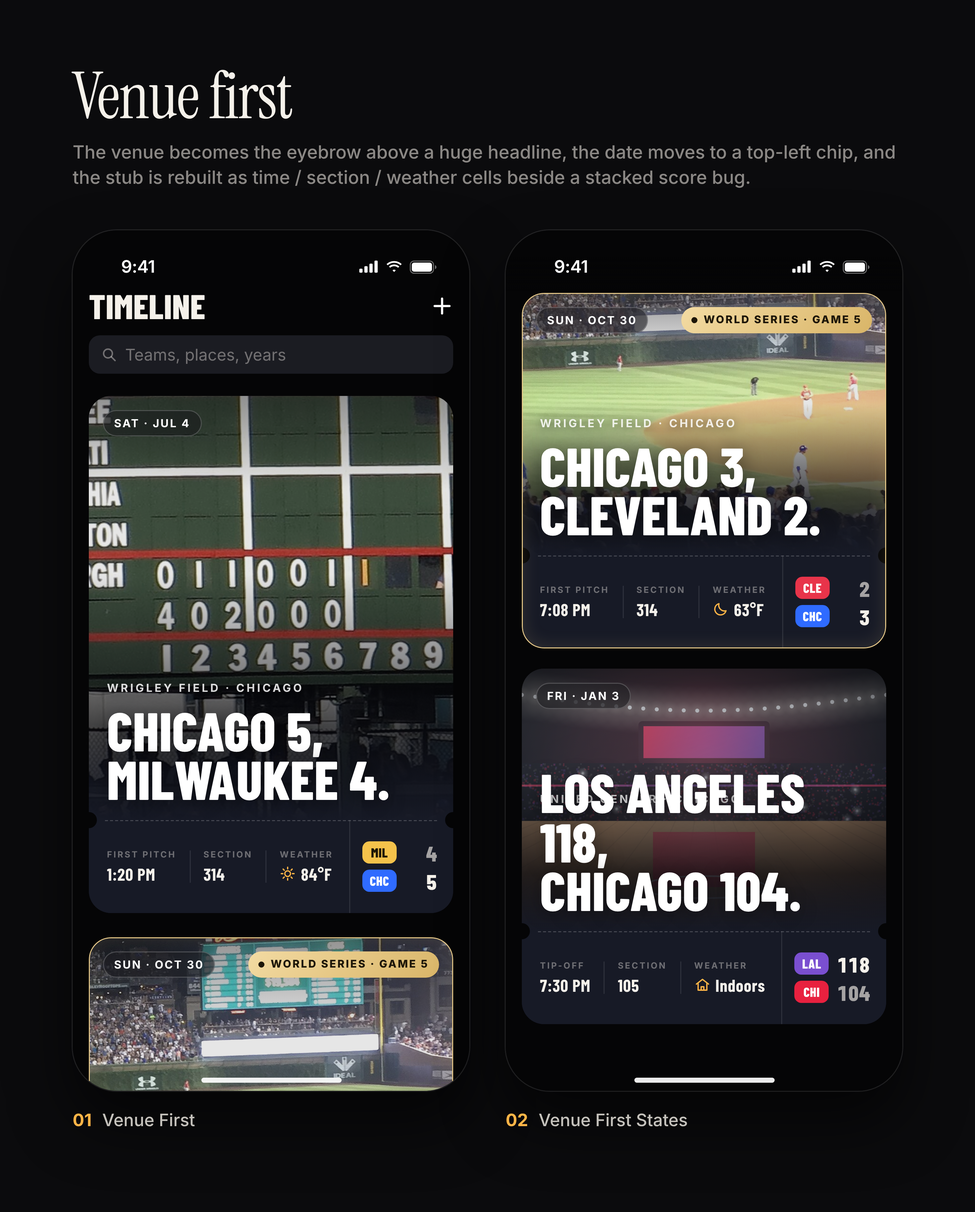
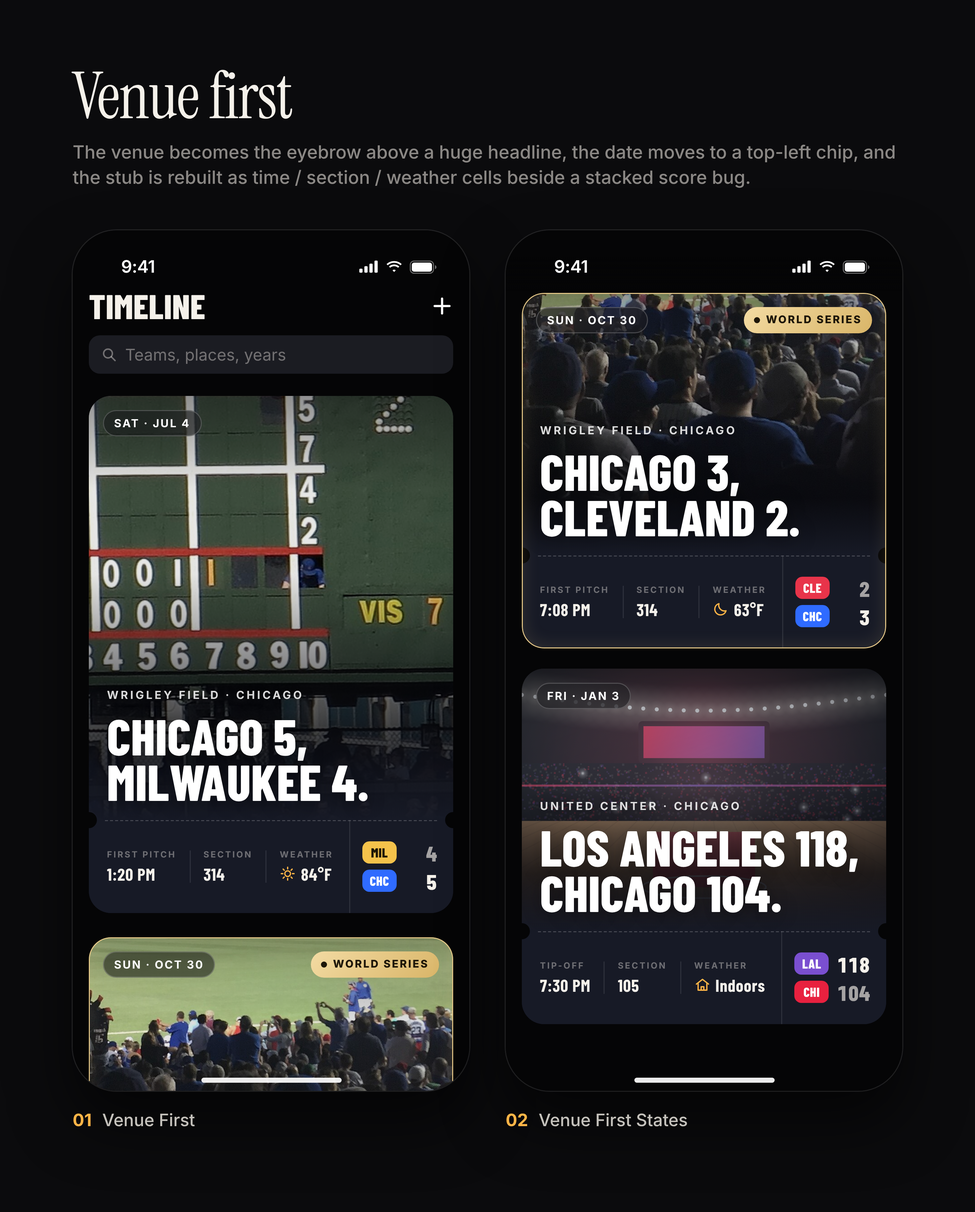
Timeline card tweaks: 01, 02 and in-progress mockups
Claude-Session: https://claude.ai/code/session_01YKCsRGYnDsF5Pryete24Wa

diff --git a/mockups/timeline-cards/features/10-firsts-and-counts/v2-states.html b/mockups/timeline-cards/features/10-firsts-and-counts/v2-states.html
@@ -10,8 +10,8 @@
 .search svg{width:17px;height:17px;stroke:var(--text-3);fill:none;stroke-width:2.2;stroke-linecap:round}
 .card{position:absolute;left:16px;width:361px;border-radius:22px;overflow:hidden;background:#14151c}
 .card.champ{box-shadow:0 0 0 1.5px #e6cf9a,0 0 28px rgba(230,207,154,.18)}
-.photo{position:absolute;left:0;top:0;right:0;overflow:hidden;background:#0b0c10}
-.photo .img,.photo canvas{position:absolute;inset:0;width:100%;height:100%}
+.ph2{position:absolute;left:0;top:0;right:0;overflow:hidden;background:#0b0c10}
+.ph2 .img,.ph2 canvas{position:absolute;inset:0;width:100%;height:100%}
 .photo .img{filter:contrast(1.05) saturate(.9) brightness(.92)}
 .scrim{position:absolute;inset:0;background:linear-gradient(to top,rgba(5,5,8,.94) 0,rgba(5,5,8,.72) 34%,rgba(5,5,8,.12) 66%,rgba(5,5,8,.28) 100%)}
 .hl{position:absolute;left:20px;right:16px;bottom:18px}
@@ -39,25 +39,25 @@
 .burst svg{position:absolute;inset:0;width:100%;height:100%}
 .burst div{position:absolute;inset:0;display:flex;flex-direction:column;align-items:center;justify-content:center;color:#2a1700;transform:rotate(-9deg)}
 .burst b{font:900 25px/.85 var(--f-cond);letter-spacing:.2px} .burst em{font:800 11.5px/1 var(--f-cond);font-style:normal;letter-spacing:1.4px;margin-top:2px}
-.stampw{position:absolute;left:176px;top:22px;width:46px;height:46px}
+.stampw{position:absolute;left:18px;top:26px;width:46px;height:46px}
 .stamp{width:44px;height:44px;opacity:.95}
 .bug.sm{font-size:20px;gap:4px} .bug.sm .tile{min-width:30px;height:24px;font-size:14px}
-.leg{position:absolute;left:16px;right:16px;top:58px;height:24px;display:flex;align-items:center;gap:8px;font:600 10.5px/1 var(--f-ui);color:var(--text-3);letter-spacing:.3px} .leg span{letter-spacing:1.4px;text-transform:uppercase;margin-right:2px} .leg i{font-style:normal;padding:4px 8px;border-radius:9px} .leg .a{background:#e6cf9a;color:#2a2210} .leg .b{background:var(--signal);color:#2a1700} .leg .c{background:rgba(255,255,255,.12);color:#fff} .leg u{text-decoration:none;color:var(--text-4)}</style></head>
+.leg{position:absolute;left:16px;right:16px;top:58px;height:24px;display:flex;align-items:center;gap:8px;font:600 10.5px/1 var(--f-ui);color:var(--text-3);letter-spacing:.3px;white-space:nowrap} .leg span{letter-spacing:1px;text-transform:uppercase;margin-right:2px} .leg i{font-style:normal;padding:4px 8px;border-radius:9px} .leg .a{background:#e6cf9a;color:#2a2210} .leg .b{background:var(--signal);color:#2a1700} .leg .c{background:rgba(255,255,255,.12);color:#fff} .leg u{text-decoration:none;color:var(--text-4)}</style></head>
 <body class="phone">
 <div class="leg"><span>Badge priority</span><i class="a">Championship</i><u>›</u><i class="b">New park</i><u>›</u><i class="c">Count</i></div><div class="card champ" style="top:92px;height:336px;--tc:#fff">
- <div class="photo" style="height:244px"><div class="img" style="background:url(../../../photos/wrigley-night.jpg) no-repeat;background-size:722px 963px;background-position:-267px -552px"></div><div class="scrim"></div><div class="evb">World Series · G5</div><div class="cnt quiet">WRIGLEY<b>#6</b></div>
+ <div class="ph2" style="height:244px"><div class="img" style="background:url(../../../photos/wrigley-night.jpg) no-repeat;background-size:722px 963px;background-position:-267px -552px"></div><div class="scrim"></div><div class="evb">World Series · G5</div><div class="cnt quiet">WRIGLEY<b>#6</b></div>
   <div class="hl"><h2>Chicago 3,<br>Cleveland 2.</h2></div></div>
  <div class="stub" style="background:#16171e"><div class="notch l"></div><div class="notch r"></div>
-  <div style="position:absolute;left:20px;top:30px"><div class="date">Oct 30, 2016</div><div class="sub" style="margin-top:8px"><b>1st</b> time seeing Cleveland</div></div>
+  <div style="position:absolute;left:74px;top:24px"><div class="date">Oct 30, 2016</div><div class="sub" style="margin-top:7px;max-width:128px"><b>1st</b> time seeing Cleveland</div></div>
   <div class="stampw"><svg class="stamp" viewBox="0 0 44 44" style="transform:rotate(-10deg)" ><circle cx="22" cy="22" r="20" fill="none" stroke="#ffb547" stroke-width="1.6" /><circle cx="22" cy="22" r="16.5" fill="none" stroke="#ffb547" stroke-width=".7" opacity=".8"/>
 <text x="22" y="14.5" text-anchor="middle" font-family="Barlow Condensed" font-weight="800" font-size="7.5" letter-spacing=".8" fill="#ffb547">WRG</text>
 <text x="22" y="28.5" text-anchor="middle" font-family="Barlow Condensed" font-weight="800" font-size="15" fill="#ffb547">6</text>
 <text x="22" y="36.5" text-anchor="middle" font-family="JetBrains Mono" font-weight="600" font-size="5" letter-spacing=".4" fill="#ffb547">2016</text></svg></div>
   <div class="bug sm"><span class="tile  dim" style="background:#C8102E;color:#fff">CLE</span><span class="sc ">2</span><span class="gap"></span><span class="tile  " style="background:#2F6BFF;color:#fff">CHC</span><span class="sc me">3</span></div></div></div><div class="card " style="top:444px;height:336px;--tc:#fff">
- <div class="photo" style="height:244px"><canvas class="photo-c" data-style="arena" data-seed="11" data-accent="#e8213f" data-secondary="#3a0b14"></canvas><div class="scrim"></div><div class="burst"><svg viewBox="0 0 72 72"><polygon points="36.0,2.0 41.5,8.5 49.0,4.6 51.6,12.7 60.0,12.0 59.3,20.4 67.4,23.0 63.5,30.5 70.0,36.0 63.5,41.5 67.4,49.0 59.3,51.6 60.0,60.0 51.6,59.3 49.0,67.4 41.5,63.5 36.0,70.0 30.5,63.5 23.0,67.4 20.4,59.3 12.0,60.0 12.7,51.6 4.6,49.0 8.5,41.5 2.0,36.0 8.5,30.5 4.6,23.0 12.7,20.4 12.0,12.0 20.4,12.7 23.0,4.6 30.5,8.5" fill="#ffb547"/><circle cx="36" cy="36" r="24.5" fill="none" stroke="#3a2200" stroke-width="1" stroke-dasharray="2 2" opacity=".55"/></svg><div><b>NEW</b><em>ARENA</em></div></div>
-  <div class="hl"><h2>Los Angeles 118,<br>Chicago 104.</h2></div></div>
+ <div class="ph2" style="height:244px"><canvas class="photo" data-style="arena" data-seed="11" data-accent="#e8213f" data-secondary="#3a0b14"></canvas><div class="scrim"></div><div class="burst"><svg viewBox="0 0 72 72"><polygon points="36.0,2.0 41.5,8.5 49.0,4.6 51.6,12.7 60.0,12.0 59.3,20.4 67.4,23.0 63.5,30.5 70.0,36.0 63.5,41.5 67.4,49.0 59.3,51.6 60.0,60.0 51.6,59.3 49.0,67.4 41.5,63.5 36.0,70.0 30.5,63.5 23.0,67.4 20.4,59.3 12.0,60.0 12.7,51.6 4.6,49.0 8.5,41.5 2.0,36.0 8.5,30.5 4.6,23.0 12.7,20.4 12.0,12.0 20.4,12.7 23.0,4.6 30.5,8.5" fill="#ffb547"/><circle cx="36" cy="36" r="24.5" fill="none" stroke="#3a2200" stroke-width="1" stroke-dasharray="2 2" opacity=".55"/></svg><div><b>NEW</b><em>ARENA</em></div></div>
+  <div class="hl"><h2>L.A. 118,<br>Chicago 104.</h2></div></div>
  <div class="stub" style="background:#16171e"><div class="notch l"></div><div class="notch r"></div>
-  <div style="position:absolute;left:20px;top:30px"><div class="date">Jan 3, 2025</div><div class="sub" style="margin-top:8px"><b>1st</b> time seeing Los Angeles</div></div>
+  <div style="position:absolute;left:74px;top:24px"><div class="date">Jan 3, 2025</div><div class="sub" style="margin-top:7px;max-width:128px"><b>1st</b> time seeing Los Angeles</div></div>
   <div class="stampw"><svg class="stamp" viewBox="0 0 44 44" style="transform:rotate(-10deg)" filter="drop-shadow(0 0 3px rgba(255,181,71,.7))"><circle cx="22" cy="22" r="20" fill="none" stroke="#ffb547" stroke-width="1.6" stroke-dasharray="3 2"/><circle cx="22" cy="22" r="16.5" fill="none" stroke="#ffb547" stroke-width=".7" opacity=".8"/>
 <text x="22" y="14.5" text-anchor="middle" font-family="Barlow Condensed" font-weight="800" font-size="7.5" letter-spacing=".8" fill="#ffb547">UC</text>
 <text x="22" y="28.5" text-anchor="middle" font-family="Barlow Condensed" font-weight="800" font-size="15" fill="#ffb547">1</text>

diff --git a/mockups/timeline-cards/features/10-firsts-and-counts/v1-main.html b/mockups/timeline-cards/features/10-firsts-and-counts/v1-main.html
@@ -10,8 +10,8 @@
 .search svg{width:17px;height:17px;stroke:var(--text-3);fill:none;stroke-width:2.2;stroke-linecap:round}
 .card{position:absolute;left:16px;width:361px;border-radius:22px;overflow:hidden;background:#14151c}
 .card.champ{box-shadow:0 0 0 1.5px #e6cf9a,0 0 28px rgba(230,207,154,.18)}
-.photo{position:absolute;left:0;top:0;right:0;overflow:hidden;background:#0b0c10}
-.photo .img,.photo canvas{position:absolute;inset:0;width:100%;height:100%}
+.ph2{position:absolute;left:0;top:0;right:0;overflow:hidden;background:#0b0c10}
+.ph2 .img,.ph2 canvas{position:absolute;inset:0;width:100%;height:100%}
 .photo .img{filter:contrast(1.05) saturate(.9) brightness(.92)}
 .scrim{position:absolute;inset:0;background:linear-gradient(to top,rgba(5,5,8,.94) 0,rgba(5,5,8,.72) 34%,rgba(5,5,8,.12) 66%,rgba(5,5,8,.28) 100%)}
 .hl{position:absolute;left:20px;right:16px;bottom:18px}
@@ -39,25 +39,25 @@
 .burst svg{position:absolute;inset:0;width:100%;height:100%}
 .burst div{position:absolute;inset:0;display:flex;flex-direction:column;align-items:center;justify-content:center;color:#2a1700;transform:rotate(-9deg)}
 .burst b{font:900 25px/.85 var(--f-cond);letter-spacing:.2px} .burst em{font:800 11.5px/1 var(--f-cond);font-style:normal;letter-spacing:1.4px;margin-top:2px}
-.stampw{position:absolute;left:176px;top:22px;width:46px;height:46px}
+.stampw{position:absolute;left:18px;top:26px;width:46px;height:46px}
 .stamp{width:44px;height:44px;opacity:.95}
 .bug.sm{font-size:20px;gap:4px} .bug.sm .tile{min-width:30px;height:24px;font-size:14px}
 </style></head>
 <body class="phone">
 <div class="title">Timeline</div><div class="plus"><svg viewBox="0 0 24 24"><path d="M12 4v16M4 12h16"/></svg></div><div class="search"><svg viewBox="0 0 24 24"><circle cx="11" cy="11" r="7"/><path d="M16.5 16.5L21 21"/></svg>Teams, places, years</div><div class="card " style="top:164px;height:512px;--tc:#fff">
- <div class="photo" style="height:420px"><div class="img" style="background:url(../../../photos/wrigley-scoreboard.jpg) no-repeat;background-size:582px 327px;background-position:-12px 46px"></div><div class="scrim"></div><div class="cnt">WRIGLEY<b>#17</b></div>
+ <div class="ph2" style="height:420px"><div class="img" style="background:url(../../../photos/wrigley-scoreboard.jpg) 30% 40%/cover no-repeat"></div><div class="scrim"></div><div class="cnt">WRIGLEY<b>#17</b></div>
   <div class="hl"><h2>Chicago 5,<br>Milwaukee 4.</h2></div></div>
  <div class="stub" style="background:#16171e"><div class="notch l"></div><div class="notch r"></div>
-  <div style="position:absolute;left:20px;top:30px"><div class="date">Jul 4, 2026</div><div class="sub" style="margin-top:8px"><b>3rd</b> time seeing Milwaukee</div></div>
+  <div style="position:absolute;left:74px;top:24px"><div class="date">Jul 4, 2026</div><div class="sub" style="margin-top:7px;max-width:128px"><b>3rd</b> time seeing Milwaukee</div></div>
   <div class="stampw"><svg class="stamp" viewBox="0 0 44 44" style="transform:rotate(-10deg)" ><circle cx="22" cy="22" r="20" fill="none" stroke="#ffb547" stroke-width="1.6" /><circle cx="22" cy="22" r="16.5" fill="none" stroke="#ffb547" stroke-width=".7" opacity=".8"/>
 <text x="22" y="14.5" text-anchor="middle" font-family="Barlow Condensed" font-weight="800" font-size="7.5" letter-spacing=".8" fill="#ffb547">WRG</text>
 <text x="22" y="28.5" text-anchor="middle" font-family="Barlow Condensed" font-weight="800" font-size="15" fill="#ffb547">17</text>
 <text x="22" y="36.5" text-anchor="middle" font-family="JetBrains Mono" font-weight="600" font-size="5" letter-spacing=".4" fill="#ffb547">2026</text></svg></div>
   <div class="bug sm"><span class="tile  dim" style="background:#F4C24B;color:#2a2100">MIL</span><span class="sc ">4</span><span class="gap"></span><span class="tile  " style="background:#2F6BFF;color:#fff">CHC</span><span class="sc me">5</span></div></div></div><div class="card champ" style="top:700px;height:512px;--tc:#fff">
- <div class="photo" style="height:420px"><div class="img" style="background:url(../../../photos/wrigley-night.jpg) no-repeat;background-size:722px 963px;background-position:-267px -464px"></div><div class="scrim"></div><div class="evb">World Series · G5</div><div class="cnt quiet">WRIGLEY<b>#6</b></div>
+ <div class="ph2" style="height:420px"><div class="img" style="background:url(../../../photos/wrigley-night.jpg) no-repeat;background-size:722px 963px;background-position:-267px -464px"></div><div class="scrim"></div><div class="evb">World Series · G5</div><div class="cnt quiet">WRIGLEY<b>#6</b></div>
   <div class="hl"><h2>Chicago 3,<br>Cleveland 2.</h2></div></div>
  <div class="stub" style="background:#16171e"><div class="notch l"></div><div class="notch r"></div>
-  <div style="position:absolute;left:20px;top:30px"><div class="date">Oct 30, 2016</div><div class="sub" style="margin-top:8px"><b>1st</b> time seeing Cleveland</div></div>
+  <div style="position:absolute;left:74px;top:24px"><div class="date">Oct 30, 2016</div><div class="sub" style="margin-top:7px;max-width:128px"><b>1st</b> time seeing Cleveland</div></div>
   <div class="stampw"><svg class="stamp" viewBox="0 0 44 44" style="transform:rotate(-10deg)" ><circle cx="22" cy="22" r="20" fill="none" stroke="#ffb547" stroke-width="1.6" /><circle cx="22" cy="22" r="16.5" fill="none" stroke="#ffb547" stroke-width=".7" opacity=".8"/>
 <text x="22" y="14.5" text-anchor="middle" font-family="Barlow Condensed" font-weight="800" font-size="7.5" letter-spacing=".8" fill="#ffb547">WRG</text>
 <text x="22" y="28.5" text-anchor="middle" font-family="Barlow Condensed" font-weight="800" font-size="15" fill="#ffb547">6</text>

diff --git a/mockups/timeline-cards/features/09-your-team/v1-main.html b/mockups/timeline-cards/features/09-your-team/v1-main.html
@@ -10,8 +10,8 @@
 .search svg{width:17px;height:17px;stroke:var(--text-3);fill:none;stroke-width:2.2;stroke-linecap:round}
 .card{position:absolute;left:16px;width:361px;border-radius:22px;overflow:hidden;background:#14151c}
 .card.champ{box-shadow:0 0 0 1.5px #e6cf9a,0 0 28px rgba(230,207,154,.18)}
-.photo{position:absolute;left:0;top:0;right:0;overflow:hidden;background:#0b0c10}
-.photo .img,.photo canvas{position:absolute;inset:0;width:100%;height:100%}
+.ph2{position:absolute;left:0;top:0;right:0;overflow:hidden;background:#0b0c10}
+.ph2 .img,.ph2 canvas{position:absolute;inset:0;width:100%;height:100%}
 .photo .img{filter:contrast(1.05) saturate(.9) brightness(.92)}
 .scrim{position:absolute;inset:0;background:linear-gradient(to top,rgba(5,5,8,.94) 0,rgba(5,5,8,.72) 34%,rgba(5,5,8,.12) 66%,rgba(5,5,8,.28) 100%)}
 .hl{position:absolute;left:20px;right:16px;bottom:18px}
@@ -42,14 +42,14 @@
 </style></head>
 <body class="phone">
 <div class="title">Timeline</div><div class="plus"><svg viewBox="0 0 24 24"><path d="M12 4v16M4 12h16"/></svg></div><div class="search"><svg viewBox="0 0 24 24"><circle cx="11" cy="11" r="7"/><path d="M16.5 16.5L21 21"/></svg>Teams, places, years</div><div class="card " style="top:164px;height:512px;--tc:#8fb0ff">
- <div class="photo" style="height:420px"><div class="img" style="background:url(../../../photos/wrigley-scoreboard.jpg) no-repeat;background-size:582px 327px;background-position:-12px 46px"></div><div class="scrim"></div>
+ <div class="ph2" style="height:420px"><div class="img" style="background:url(../../../photos/wrigley-scoreboard.jpg) 30% 40%/cover no-repeat"></div><div class="scrim"></div>
   <div class="tint" style="background:linear-gradient(to top,color-mix(in srgb,#2F6BFF 26%,transparent),transparent 55%)"></div>
   <div class="chip"><span class="tile s " style="background:#2F6BFF;color:#fff">CHC</span><span>You were there for <b>Chicago</b></span></div>
   <div class="hl"><h2>Chicago <span class="w">win</span><br>5–4.</h2><div class="rv"><i></i><span>vs Milwaukee</span><i></i></div></div></div>
  <div class="stub" style="background:linear-gradient(180deg,color-mix(in srgb,#2F6BFF 34%,#14151c),color-mix(in srgb,#2F6BFF 14%,#12131a))"><div class="notch l"></div><div class="notch r"></div>
   <div style="position:absolute;left:20px;top:30px"><div class="date">Jul 4, 2026</div><div class="sub" style="margin-top:8px">Win <b>#9</b> of 2026 · Sec 314</div></div>
   <div class="bug"><span class="tile  dim" style="background:#F4C24B;color:#2a2100">MIL</span><span class="sc ">4</span><span class="gap"></span><span class="tile  " style="background:#2F6BFF;color:#fff">CHC</span><span class="sc me">5</span></div></div></div><div class="card champ" style="top:700px;height:512px;--tc:#8fb0ff">
- <div class="photo" style="height:420px"><div class="img" style="background:url(../../../photos/wrigley-night.jpg) no-repeat;background-size:722px 963px;background-position:-267px -464px"></div><div class="scrim"></div>
+ <div class="ph2" style="height:420px"><div class="img" style="background:url(../../../photos/wrigley-night.jpg) no-repeat;background-size:722px 963px;background-position:-267px -464px"></div><div class="scrim"></div>
   <div class="tint" style="background:linear-gradient(to top,color-mix(in srgb,#2F6BFF 26%,transparent),transparent 55%)"></div>
   <div class="chip"><span class="tile s " style="background:#2F6BFF;color:#fff">CHC</span><span>You were there for <b>Chicago</b></span></div><div class="evb">World Series</div>
   <div class="hl"><h2>Chicago <span class="w">win</span><br>3–2.</h2><div class="op">over Cleveland · World Series G5</div></div></div>

diff --git a/mockups/timeline-cards/features/09-your-team/v2-states.html b/mockups/timeline-cards/features/09-your-team/v2-states.html
@@ -10,8 +10,8 @@
 .search svg{width:17px;height:17px;stroke:var(--text-3);fill:none;stroke-width:2.2;stroke-linecap:round}
 .card{position:absolute;left:16px;width:361px;border-radius:22px;overflow:hidden;background:#14151c}
 .card.champ{box-shadow:0 0 0 1.5px #e6cf9a,0 0 28px rgba(230,207,154,.18)}
-.photo{position:absolute;left:0;top:0;right:0;overflow:hidden;background:#0b0c10}
-.photo .img,.photo canvas{position:absolute;inset:0;width:100%;height:100%}
+.ph2{position:absolute;left:0;top:0;right:0;overflow:hidden;background:#0b0c10}
+.ph2 .img,.ph2 canvas{position:absolute;inset:0;width:100%;height:100%}
 .photo .img{filter:contrast(1.05) saturate(.9) brightness(.92)}
 .scrim{position:absolute;inset:0;background:linear-gradient(to top,rgba(5,5,8,.94) 0,rgba(5,5,8,.72) 34%,rgba(5,5,8,.12) 66%,rgba(5,5,8,.28) 100%)}
 .hl{position:absolute;left:20px;right:16px;bottom:18px}
@@ -42,14 +42,14 @@
 </style></head>
 <body class="phone">
 <div class="card champ" style="top:62px;height:354px;--tc:#8fb0ff">
- <div class="photo" style="height:262px"><div class="img" style="background:url(../../../photos/wrigley-night.jpg) no-repeat;background-size:722px 963px;background-position:-267px -543px"></div><div class="scrim"></div>
+ <div class="ph2" style="height:262px"><div class="img" style="background:url(../../../photos/wrigley-night.jpg) no-repeat;background-size:722px 963px;background-position:-267px -543px"></div><div class="scrim"></div>
   <div class="tint" style="background:linear-gradient(to top,color-mix(in srgb,#2F6BFF 26%,transparent),transparent 55%)"></div>
   <div class="chip"><span class="tile s " style="background:#2F6BFF;color:#fff">CHC</span><span>You were there for <b>Chicago</b></span></div><div class="evb">World Series</div>
   <div class="hl"><h2>Chicago <span class="w">win</span><br>3–2.</h2><div class="op">over Cleveland · World Series G5</div></div></div>
  <div class="stub" style="background:linear-gradient(180deg,color-mix(in srgb,#2F6BFF 34%,#14151c),color-mix(in srgb,#2F6BFF 14%,#12131a))"><div class="notch l"></div><div class="notch r"></div>
   <div style="position:absolute;left:20px;top:30px"><div class="date">Oct 30, 2016</div><div class="sub" style="margin-top:8px">Win <b>#6</b> of 2016 · Sec 314</div></div>
   <div class="bug"><span class="tile  dim" style="background:#C8102E;color:#fff">CLE</span><span class="sc ">2</span><span class="gap"></span><span class="tile  " style="background:#2F6BFF;color:#fff">CHC</span><span class="sc me">3</span></div></div></div><div class="card " style="top:434px;height:354px;--tc:#ff6b80">
- <div class="photo" style="height:262px"><canvas class="photo-c" data-style="arena" data-seed="11" data-accent="#e8213f" data-secondary="#3a0b14"></canvas><div class="scrim"></div>
+ <div class="ph2" style="height:262px"><canvas class="photo" data-style="arena" data-seed="11" data-accent="#e8213f" data-secondary="#3a0b14"></canvas><div class="scrim"></div>
   <div class="tint" style="background:linear-gradient(to top,color-mix(in srgb,#E8213F 26%,transparent),transparent 55%)"></div>
   <div class="chip"><span class="tile s " style="background:#E8213F;color:#fff">CHI</span><span>You were there for <b>Chicago</b></span></div>
   <div class="hl"><h2>Chicago <span class="f">fall</span><br>104–118.</h2><div class="op">to Los Angeles</div></div></div>

diff --git a/mockups/timeline-cards/features/09-your-team/gen.py b/mockups/timeline-cards/features/09-your-team/gen.py
@@ -24,8 +24,8 @@ CSS = """
 .search svg{width:17px;height:17px;stroke:var(--text-3);fill:none;stroke-width:2.2;stroke-linecap:round}
 .card{position:absolute;left:16px;width:361px;border-radius:22px;overflow:hidden;background:#14151c}
 .card.champ{box-shadow:0 0 0 1.5px #e6cf9a,0 0 28px rgba(230,207,154,.18)}
-.photo{position:absolute;left:0;top:0;right:0;overflow:hidden;background:#0b0c10}
-.photo .img,.photo canvas{position:absolute;inset:0;width:100%;height:100%}
+.ph2{position:absolute;left:0;top:0;right:0;overflow:hidden;background:#0b0c10}
+.ph2 .img,.ph2 canvas{position:absolute;inset:0;width:100%;height:100%}
 .photo .img{filter:contrast(1.05) saturate(.9) brightness(.92)}
 .scrim{position:absolute;inset:0;background:linear-gradient(to top,rgba(5,5,8,.94) 0,rgba(5,5,8,.72) 34%,rgba(5,5,8,.12) 66%,rgba(5,5,8,.28) 100%)}
 .hl{position:absolute;left:20px;right:16px;bottom:18px}
@@ -53,9 +53,9 @@ HEADER = ('<div class="title">Timeline</div><div class="plus"><svg viewBox="0 0 
 
 # cards: (id, bg style, tag)
 def bg(card, bw, bh):
-    if card == 1: return f'<div class="img" style="{crop("wrigley-scoreboard",719/1280,.33,.5,.62 if bh>300 else .8,bw,bh)}"></div>'
+    if card == 1: return f'<div class="img" style="background:url({P}wrigley-scoreboard.jpg) 30% 40%/cover no-repeat"></div>'
     if card == 2: return f'<div class="img" style="{crop("wrigley-night",2560/1920,.62,.70,.5,bw,bh)}"></div>'
-    return '<canvas class="photo-c" data-style="arena" data-seed="11" data-accent="#e8213f" data-secondary="#3a0b14"></canvas>'
+    return '<canvas class="photo" data-style="arena" data-seed="11" data-accent="#e8213f" data-secondary="#3a0b14"></canvas>'
 
 # ============================ 09 =============================
 def yt_card(n, top, ph):
@@ -78,7 +78,7 @@ def yt_card(n, top, ph):
     bug = (f'{tile(d["a"][0],"",d["a"][0]!=d["me"])}<span class="sc {"me" if am else ""}">{d["a"][1]}</span><span class="gap"></span>'
            f'{tile(d["h"][0],"",d["h"][0]!=d["me"])}<span class="sc {"me" if not am else ""}">{d["h"][1]}</span>')
     return f'''<div class="card {"champ" if d["champ"] else ""}" style="top:{top}px;height:{ph+92}px;--tc:{d["w"]}">
- <div class="photo" style="height:{ph}px">{bg(n,361,ph)}<div class="scrim"></div>
+ <div class="ph2" style="height:{ph}px">{bg(n,361,ph)}<div class="scrim"></div>
   <div class="tint" style="background:linear-gradient(to top,color-mix(in srgb,{d["tc"]} 26%,transparent),transparent 55%)"></div>
   <div class="chip">{tile(d["me"],"s")}<span>You were there for <b>{d["city"]}</b></span></div>{badge}
   <div class="hl"><h2>{d["head"]}</h2>{opp}</div></div>
@@ -135,7 +135,7 @@ def fc_card(n, top, ph):
              top='count', cnt=('WRIGLEY','#17'), stamp=('WRG','17','2026',False)),
      2: dict(head='Chicago 3,<br>Cleveland 2.', date='Oct 30, 2016', sub='<b>1st</b> time seeing Cleveland', a=('CLE',2), h=('CHC',3), me='CHC', champ=True,
              top='champ+count', cnt=('WRIGLEY','#6'), stamp=('WRG','6','2016',False)),
-     3: dict(head='Los Angeles 118,<br>Chicago 104.', date='Jan 3, 2025', sub='<b>1st</b> time seeing Los Angeles', a=('LAL',118), h=('CHI',104), me='CHI', champ=False,
+     3: dict(head='L.A. 118,<br>Chicago 104.', date='Jan 3, 2025', sub='<b>1st</b> time seeing Los Angeles', a=('LAL',118), h=('CHI',104), me='CHI', champ=False,
              top='new', cnt=None, stamp=('UC','1','2025',True)),
     }[n]
     tl = tr = ''
@@ -147,10 +147,10 @@ def fc_card(n, top, ph):
     bug = (f'{tile(d["a"][0],"",d["a"][0]!=d["me"])}<span class="sc {"me" if am else ""}">{d["a"][1]}</span><span class="gap"></span>'
            f'{tile(d["h"][0],"",d["h"][0]!=d["me"])}<span class="sc {"me" if not am else ""}">{d["h"][1]}</span>')
     return f'''<div class="card {"champ" if d["champ"] else ""}" style="top:{top}px;height:{ph+92}px;--tc:#fff">
- <div class="photo" style="height:{ph}px">{bg(n,361,ph)}<div class="scrim"></div>{tl}{tr}
+ <div class="ph2" style="height:{ph}px">{bg(n,361,ph)}<div class="scrim"></div>{tl}{tr}
   <div class="hl"><h2>{d["head"]}</h2></div></div>
  <div class="stub" style="background:#16171e"><div class="notch l"></div><div class="notch r"></div>
-  <div style="position:absolute;left:20px;top:30px"><div class="date">{d["date"]}</div><div class="sub" style="margin-top:8px">{d["sub"]}</div></div>
+  <div style="position:absolute;left:74px;top:24px"><div class="date">{d["date"]}</div><div class="sub" style="margin-top:7px;max-width:128px">{d["sub"]}</div></div>
   <div class="stampw">{stamp(*d["stamp"][:3], new=d["stamp"][3])}</div>
   <div class="bug sm">{bug}</div></div></div>'''
 
@@ -163,7 +163,7 @@ X10 = """
 .burst svg{position:absolute;inset:0;width:100%;height:100%}
 .burst div{position:absolute;inset:0;display:flex;flex-direction:column;align-items:center;justify-content:center;color:#2a1700;transform:rotate(-9deg)}
 .burst b{font:900 25px/.85 var(--f-cond);letter-spacing:.2px} .burst em{font:800 11.5px/1 var(--f-cond);font-style:normal;letter-spacing:1.4px;margin-top:2px}
-.stampw{position:absolute;left:176px;top:22px;width:46px;height:46px}
+.stampw{position:absolute;left:18px;top:26px;width:46px;height:46px}
 .stamp{width:44px;height:44px;opacity:.95}
 .bug.sm{font-size:20px;gap:4px} .bug.sm .tile{min-width:30px;height:24px;font-size:14px}
 """
@@ -173,7 +173,7 @@ def build10():
     open(os.path.join(d, 'v1-main.html'), 'w').write(v1)
     # priority legend
     leg = '''<div class="leg"><span>Badge priority</span><i class="a">Championship</i><u>›</u><i class="b">New park</i><u>›</u><i class="c">Count</i></div>'''
-    x = X10 + ".leg{position:absolute;left:16px;right:16px;top:58px;height:24px;display:flex;align-items:center;gap:8px;font:600 10.5px/1 var(--f-ui);color:var(--text-3);letter-spacing:.3px} .leg span{letter-spacing:1.4px;text-transform:uppercase;margin-right:2px} .leg i{font-style:normal;padding:4px 8px;border-radius:9px} .leg .a{background:#e6cf9a;color:#2a2210} .leg .b{background:var(--signal);color:#2a1700} .leg .c{background:rgba(255,255,255,.12);color:#fff} .leg u{text-decoration:none;color:var(--text-4)}"
+    x = X10 + ".leg{position:absolute;left:16px;right:16px;top:58px;height:24px;display:flex;align-items:center;gap:8px;font:600 10.5px/1 var(--f-ui);color:var(--text-3);letter-spacing:.3px;white-space:nowrap} .leg span{letter-spacing:1px;text-transform:uppercase;margin-right:2px} .leg i{font-style:normal;padding:4px 8px;border-radius:9px} .leg .a{background:#e6cf9a;color:#2a2210} .leg .b{background:var(--signal);color:#2a1700} .leg .c{background:rgba(255,255,255,.12);color:#fff} .leg u{text-decoration:none;color:var(--text-4)}"
     v2 = head(x).replace('{T}', 'Firsts and counts states') + leg + fc_card(2, 92, 244) + fc_card(3, 92+336+16, 244) + FOOT
     open(os.path.join(d, 'v2-states.html'), 'w').write(v2)
     json.dump({"title": "10 · Firsts and counts", "summary": "Visit-aware badges (venue count chip, NEW PARK starburst, \"3rd time seeing\" and a passport stamp) so the card celebrates what's special about this visit."}, open(os.path.join(d, 'feature.json'), 'w'))

diff --git a/mockups/timeline-cards/features/06-big-game-ribbon/NOTES.md b/mockups/timeline-cards/features/06-big-game-ribbon/NOTES.md
@@ -1,0 +1,4 @@
+Added: 36pt header ribbon on every card. Big games: navy-to-red World Series gradient, star, tracked caps, year, status pill ("Game 5 · Down 3-1"), champagne rule plus the existing keyline. Regular games: quiet grey "Regular season · Game 87" with league at right.
+Removed: the floating event badge (the ribbon replaces it). Headline and stub (date, section, score bug) are unchanged.
+Data needs: competition/stage, game number in season, series game and series status, league, per-event palette (needs a small palette table per event).
+Risk: cards are 36pt taller (548pt total); the ribbon must truncate gracefully for long stage names ("NFC Wild Card Round").

diff --git a/mockups/timeline-cards/features/02-venue-first/NOTES.md b/mockups/timeline-cards/features/02-venue-first/NOTES.md
@@ -1,0 +1,5 @@
+- Added: venue as tracked-caps eyebrow above the headline; date + weekday chip top-left ("SAT · JUL 4"); big-game badge moved top-right.
+- Stub rebuilt as three cells (first pitch / tip-off, section, weather icon + temp) with a stacked score bug at right; date removed from the stub.
+- Headline kept huge: 50pt (was 54) so "LOS ANGELES 118, CHICAGO 104." holds two lines; the eyebrow tracks the headline height.
+- Data needs: start time, section, weather (indoor venues show "Indoors"), venue + city.
+- Risk: three cells plus bug is the densest stub of the set; a missing section needs a "—" or the cell should collapse.
